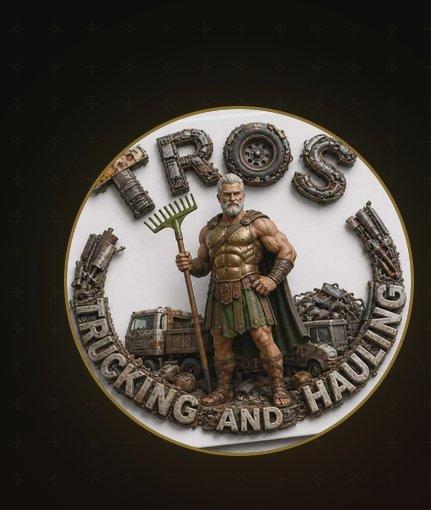
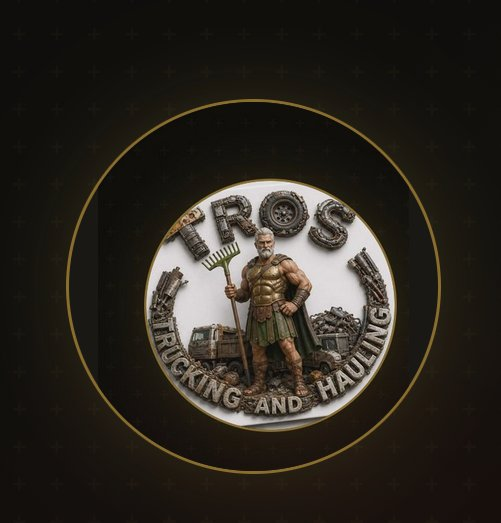
fixed image

diff --git a/style.css b/style.css
@@ -161,10 +161,9 @@ ul { list-style: none; }
 .nav-logo {
   height: 54px;
   width: 54px;
-  object-fit: contain;
+  object-fit: cover;
   border-radius: 50%;
   border: 2px solid var(--gold-dim);
-  background: #1a1814;
 }
 
 .nav-links {
@@ -294,10 +293,9 @@ ul { list-style: none; }
 .hero-logo {
   width: 300px;
   height: 300px;
-  object-fit: contain;
+  object-fit: cover;
   border-radius: 50%;
   border: 3px solid var(--gold-dim);
-  background: #1a1814;
   box-shadow: 0 0 60px rgba(201,168,76,0.15), 0 0 120px rgba(201,168,76,0.06);
   animation: heroFadeIn 1s ease both;
 }
@@ -580,9 +578,8 @@ ul { list-style: none; }
 .why-logo {
   width: 100%;
   height: 100%;
-  object-fit: contain;
+  object-fit: cover;
   border-radius: 50%;
-  background: #1a1814;
 }
 
 /* =============================================
@@ -892,10 +889,9 @@ ul { list-style: none; }
 .footer-logo {
   width: 64px;
   height: 64px;
-  object-fit: contain;
+  object-fit: cover;
   border-radius: 50%;
   border: 2px solid var(--gold-dim);
-  background: #1a1814;
 }
 
 .footer-brand p {
